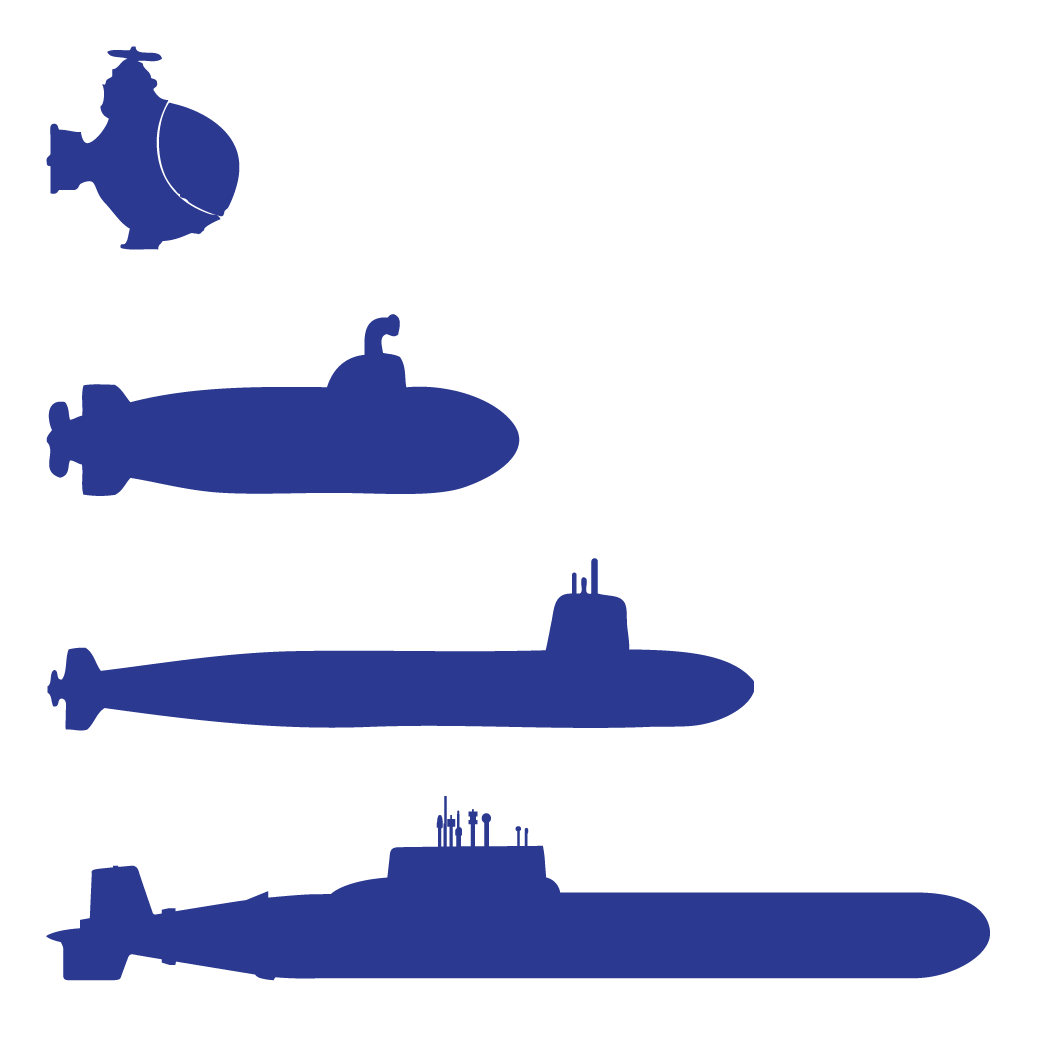
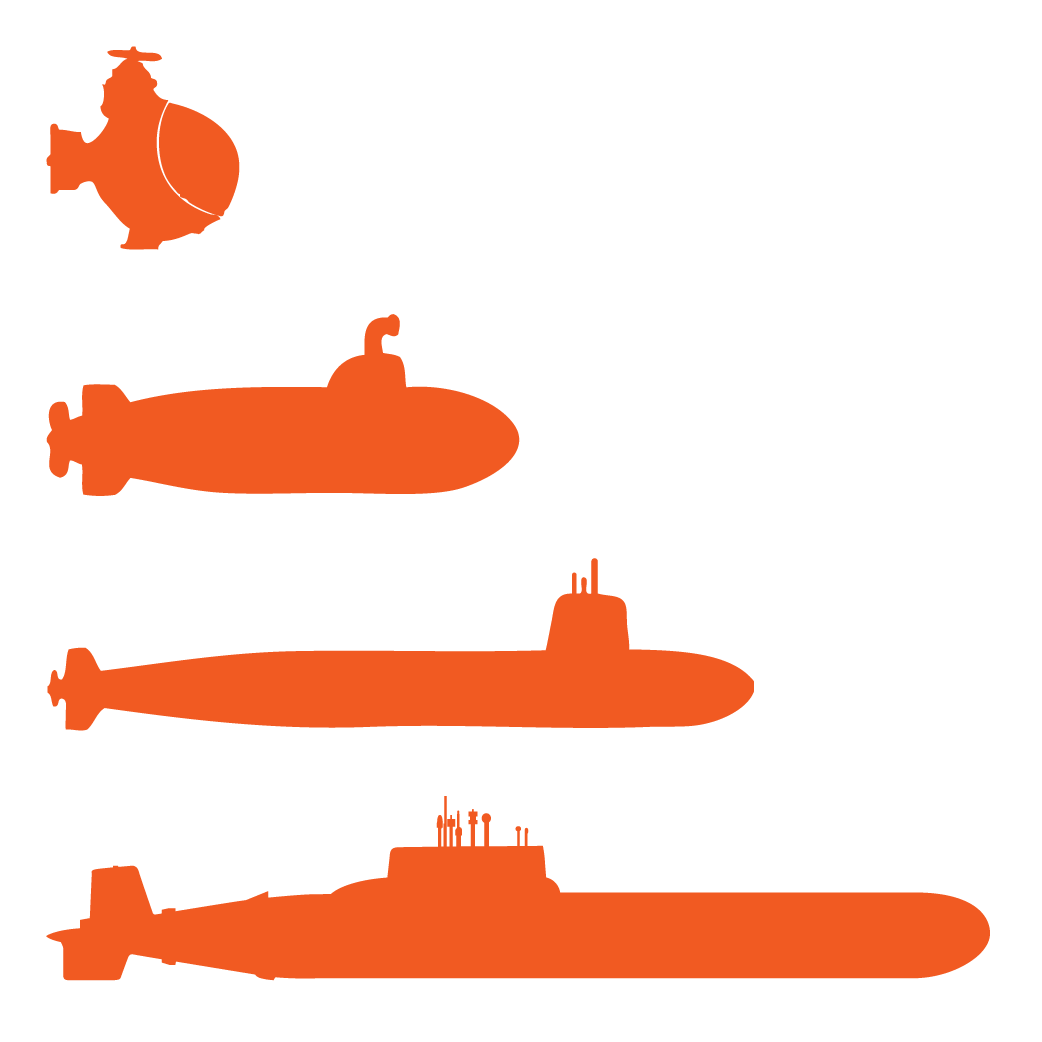
changed layout of How to Play box and color scheme

diff --git a/StartPage.xaml b/StartPage.xaml
@@ -19,14 +19,14 @@
                     <RowDefinition Height="4*"/>
                     <RowDefinition Height="2*"/>
                 </Grid.RowDefinitions>
-                <Rectangle Fill="LightGray" Grid.Row="0" Grid.RowSpan="2" Margin="16, 16, 16, 8"/>
+                <Rectangle Fill="White" Grid.Row="0" Grid.RowSpan="2" Margin="16, 16, 16, 8"/>
                 <TextBlock Foreground="#2B3990" Grid.Column="0" Grid.Row="0" Width="700" Grid.RowSpan="2" TextAlignment="Center" VerticalAlignment="Center" HorizontalAlignment="Center" Text="SubSweeper" TextWrapping="Wrap" FontSize="100" FontFamily="Segoe UI Semi Bold" Grid.ColumnSpan="2"/>
-                <Button x:Name="HowToPlayButton" Background="LightSlateGray" Click="HowToPlayButton_Click" Grid.Row="0" Grid.RowSpan="2" Content="How to Play" VerticalAlignment="Stretch" Foreground="White" HorizontalAlignment="Left" FontSize="45" FontFamily="SegoeUISemibold" Height="210" Margin="70, 0, 0, 0"/>
+                <Button x:Name="HowToPlayButton" Background="LightSlateGray" Click="HowToPlayButton_Click" Grid.Row="0" Grid.RowSpan="2" Content="How to Play" VerticalAlignment="Center" Foreground="White" HorizontalAlignment="Left" FontSize="45" FontFamily="SegoeUISemibold" Height="210" Margin="50, 8, 0, 0"/>
                 <Button Background="LightSlateGray" Foreground="White" Name="Stop" Grid.Row="0" Grid.RowSpan="2" Click="Stop_Click" Content="&#xE8BB;" VerticalAlignment="Top" HorizontalAlignment="Right" FontSize="80" FontFamily="Segoe MDL2 Assets" Height="140" Margin="0, 70, 70,0" Width="{Binding ActualHeight, ElementName=Stop, Mode=OneWay}"/>
                 <Image x:Name="Subs" Source="/Assets/subs_inline.png" Width="700" Grid.Row="1" VerticalAlignment="Stretch" HorizontalAlignment="Stretch"></Image>
             </Grid>
 
-            <Grid x:Name="LevelsGrid" Grid.Row="1" Background="LightGray" Margin="16, 8, 16, 0">
+            <Grid x:Name="LevelsGrid" Grid.Row="1" Background="White" Margin="16, 8, 16, 0">
                 <Grid.ColumnDefinitions>
                     <ColumnDefinition Width="367*"/>
                     <ColumnDefinition Width="367*"/>
@@ -39,28 +39,31 @@
                 <Button Name="Size6" Click="Size6_Click" Grid.Column="2" HorizontalAlignment="Stretch" VerticalAlignment="Stretch" Width="300" Height="{Binding ActualWidth, ElementName=Size6, Mode=OneWay}" FontSize="80" FontFamily="SegoeUISemibold" Margin="34,113,33,112"/>
                 <Button Name="Size7" Click="Size7_Click" Grid.Column="3" HorizontalAlignment="Stretch" VerticalAlignment="Stretch" Width="300" Height="{Binding ActualWidth, ElementName=Size7, Mode=OneWay}" FontSize="80" FontFamily="SegoeUISemibold" Grid.ColumnSpan="2" Margin="34,113,33,112"/>
             </Grid>
-            <Rectangle Fill="LightGray" Grid.Row="2" Margin="16, 0, 16, 16"/>
-            <TextBlock Foreground="Black" Text="Select a Size" Grid.Row="2" FontSize="55" FontFamily="SegoeUISemiBold" VerticalAlignment="Top" HorizontalAlignment="Center"/>
+            <Rectangle Fill="White" Grid.Row="2" Margin="16, 0, 16, 16"/>
+            <TextBlock Foreground="#2B3990" Text="Select a Size" Grid.Row="1" FontSize="55" FontFamily="SegoeUISemiBold" VerticalAlignment="Bottom" HorizontalAlignment="Center"/>
         </Grid>
-        <Grid  x:Name="HowtoPlayGrid" Visibility="Collapsed" Background="#AFABAB" HorizontalAlignment="Center" VerticalAlignment="Center" Height="800" Width="1200">
+        <Grid  x:Name="HowtoPlayGrid" Visibility="Collapsed" Background="#FFFFFF" HorizontalAlignment="Center" VerticalAlignment="Center" Height="750" Width="1300">
             <Grid.RowDefinitions>
                 <RowDefinition Height="1*"/>
                 <RowDefinition Height="4*"/>
             </Grid.RowDefinitions>
-            <Border BorderThickness="2" BorderBrush="#2B3990" Grid.Row="1">
+            <Border BorderThickness="15, 0, 15, 15" BorderBrush="#F15A22" Grid.Row="1">
                 <StackPanel Orientation="Vertical">
-                    <TextBlock x:Name="HowtoPlayText" Margin="16" TextWrapping="Wrap" FontSize="45" HorizontalAlignment="Stretch" VerticalAlignment="Stretch" Text="">
-                There are four submarines of sizes one, two, three, and four hidden in the board. Select a board size, and dwell with your eyes or click to fire.
+                    <TextBlock x:Name="HowtoPlayText" LineHeight="2" Foreground="#282828" Margin="16" TextWrapping="Wrap" FontSize="32" HorizontalAlignment="Stretch" VerticalAlignment="Stretch" Text="" FontFamily="Segoe UI">
+                There are four submarines of sizes one, two, three, and four hidden in the board. Select a board size, and dwell with your eyes or click to fire on a square.
                     </TextBlock>
-                    <TextBlock TextWrapping="Wrap" Text="When you hit, you will see a flash.  After you hit every part of the submarine, it sinks and the whole sub will be revealed." FontSize="45" Margin="16, 0, 0, 0"/>
-                    <TextBlock TextWrapping="Wrap" Text="The game ends when you have sunk all four submarines. " FontSize="45" Margin="16, 0, 0, 0"/>
-                    <TextBlock TextWrapping="Wrap" Text="Go on and test your accuracy. Enjoy!" FontSize="60" Margin="16, 0, 0, 0"/>
+                    <TextBlock TextWrapping="Wrap" LineHeight="2" Foreground="#282828" Text="" FontSize="32" Margin="16, 0, 0, 0" FontFamily="Segoe UI"/>
+                    <TextBlock TextWrapping="Wrap" LineHeight="2" Foreground="#282828" Text="When you hit, you will see a flash. Each part of a sub is hidden in a square. After you hit every part of the submarine, it sinks and the whole sub will be revealed." FontSize="32" Margin="16, 0, 0, 0" FontFamily="Segoe UI"/>
+                    <TextBlock TextWrapping="Wrap" LineHeight="2" Foreground="#282828" Text="" FontSize="32" Margin="16, 0, 0, 0" FontFamily="Segoe UI"/>
+                    <TextBlock TextWrapping="Wrap" LineHeight="2" Foreground="#282828" Text="The game ends when you have sunk all four submarines. " FontSize="32" Margin="16, 0, 0, 0" FontFamily="Segoe UI"/>
+                    <TextBlock TextWrapping="Wrap" LineHeight="2" Foreground="#282828" Text="" FontSize="32" Margin="16, 0, 0, 0" FontFamily="Segoe UI"/>
+                    <TextBlock TextWrapping="Wrap" Foreground="#2B3990" Text="Try and do it in as few moves as possible. Enjoy!" FontSize="40" Margin="16, 0, 0, 0" FontFamily="Segoe UI Semibold"/>
                 </StackPanel>
             </Border>
-            <Border BorderThickness="2" BorderBrush="#2B3990" Grid.Row="0">
-                <TextBlock Text="How to Play SubSweeper" FontSize="80" VerticalAlignment="Center" Margin="16"/>
+            <Border BorderThickness="15, 15, 15, 0" BorderBrush="#F15A22" Grid.Row="0">
+                <TextBlock Text="How to Play SubSweeper" FontSize="60" VerticalAlignment="Center" Margin="16" Foreground="#2B3990" FontFamily="Segoe UI Semibold"/>
             </Border>
-            <Button x:Name="ClosePlay" HorizontalAlignment="Right" Click="ClosePlay_Click" FontSize="80" Content="&#xE8BB;"  Foreground="#343434" Height="{Binding ActualWidth, ElementName=ClosePlay}" Width="100" Background="#AFABAB" FontFamily="Segoe MDL2 Assets" Margin="16"/>
+            <Button x:Name="ClosePlay" HorizontalAlignment="Right" Click="ClosePlay_Click" FontSize="60" Content="&#xE8BB;" Foreground="#F15A22" Height="100" Width="100" Background="#FFFFFF" FontFamily="Segoe MDL2 Assets" Margin="16, 5, 23, 16"/>
         </Grid>
     </Grid>
 </Page>

diff --git a/MainPage.xaml b/MainPage.xaml
@@ -53,17 +53,17 @@
                 <Button Grid.Row="3" Grid.Column="3" Click="OnFired" HorizontalAlignment="Stretch" VerticalAlignment="Stretch" Margin="2" FontSize="70" FontFamily="Segoe MDL2 Assets"/>
 
             </Grid>
-            <Grid Grid.Column ="0" Grid.Row="0" Grid.RowSpan="2" Background="LightGray" Margin="16,16,8,16">
+            <Grid Grid.Column ="0" Grid.Row="0" Grid.RowSpan="2" Background="White" Margin="16,16,8,16">
                 <Grid.RowDefinitions>
                     <RowDefinition Height="2*"/>
                     <RowDefinition Height="1*"/>
                     <RowDefinition Height="2*"/>
                 </Grid.RowDefinitions>
                 <TextBlock Grid.Column="0" Grid.Row="0" VerticalAlignment="Center" Foreground="#2B3990"  HorizontalAlignment="Center" Text="SubSweeper" TextWrapping="Wrap" FontSize="50" FontFamily="Segoe UI Semi Bold"/>
-                <Image x:Name="Subs" Source="/Assets/subs.png" Grid.Row="2" VerticalAlignment="Center" HorizontalAlignment="Center" Height="{Binding ActualWidth, ElementName=Subs, Mode=OneWay}" Width="{Binding ActualWidth, ElementName=NewGame, Mode=OneWay}"></Image>
-                <Button x:Name="NewGame" Grid.Column="0" Grid.Row="1" Background="LightSlateGray" Foreground="White" Content="New Game" Click="OnNewGame" HorizontalAlignment="Center" Height="100" Width="250" FontSize="32" FontFamily="SegoeUISemibold" VerticalAlignment="Top"/>
+                <Image x:Name="Subs" Source="/Assets/subs.png" Grid.Row="2" VerticalAlignment="Center" HorizontalAlignment="Center" Height="{Binding ActualWidth, ElementName=Subs, Mode=OneWay}" Width="250"></Image>
+                <Button x:Name="NewGame" Grid.Column="0" Grid.Row="1" Background="LightSlateGray" Foreground="White" Content="New Game" Click="OnNewGame" HorizontalAlignment="Center" Height="150" Width="250" FontSize="32" FontFamily="SegoeUISemibold" VerticalAlignment="Center"/>
             </Grid>
-            <Grid Grid.Column="2" Grid.Row="0" Grid.RowSpan="2" Background="LightGray" Margin="8,16,16,16">
+            <Grid Grid.Column="2" Grid.Row="0" Grid.RowSpan="2" Background="White" Margin="8,16,16,16">
                 <Grid.RowDefinitions>
                     <RowDefinition Height="1*"/>
                     <RowDefinition Height="1*"/>
@@ -75,10 +75,11 @@
                 <Button x:Name="Stop_Button" Margin="8" Background="LightSlateGray" Foreground="White" Click="Stop_Click" Grid.Row="0" Content="&#xE8BB;" Width="{Binding ActualHeight, ElementName=Stop_Button, Mode=OneWay}" HorizontalAlignment="Right" FontSize="50" FontFamily="Segoe MDL2 Assets" Height="100" VerticalAlignment="Top"/>
                 <Button x:Name="Pause_Button" Margin="8" Background="LightSlateGray" Foreground="White" Click="Pause_Button_Click" Grid.Row="0" Content="&#xE769;" Width="{Binding ActualHeight, ElementName=Stop_Button, Mode=OneWay}" HorizontalAlignment="Left" FontSize="50" FontFamily="Segoe MDL2 Assets" Height="100" VerticalAlignment="Top"/>
                 <TextBlock x:Name="ShipsLeftText" Grid.Column="2" Grid.Row ="1" Foreground="#2B3990" HorizontalAlignment="Left" Text="Subs Left:" TextWrapping="Wrap" VerticalAlignment="Bottom" Margin="32,0,8,0"  FontSize="35" FontFamily="Segoe UI Semi Bold"/>
-                <TextBlock Grid.Column="2" Grid.Row ="2" Foreground="#2B3990" HorizontalAlignment="Left" x:Name="ShipScore" TextWrapping="Wrap" VerticalAlignment="Top" Margin="32, 0, 8, 0" FontSize="60" FontFamily="Segoe UI Semi Bold"/>
+                <TextBlock Grid.Column="2" Grid.Row ="2" Foreground="#F15A22" HorizontalAlignment="Left" x:Name="ShipScore" TextWrapping="Wrap" VerticalAlignment="Top" Margin="32, 0, 8, 0" FontSize="60" FontFamily="Segoe UI Semi Bold"/>
                 <TextBlock x:Name="MovesText" Grid.Row ="3" Foreground="#2B3990" HorizontalAlignment="Left" Text="Moves:" TextWrapping="Wrap" VerticalAlignment="Bottom" Margin="32, 0, 8, 0" FontSize="35" FontFamily="Segoe UI Semi Bold"/>
-                <TextBlock x:Name="Moves" Grid.Row ="4" Foreground="#2B3990" HorizontalAlignment="Left" Text="" TextWrapping="Wrap" VerticalAlignment="Top" Margin="32, 0, 8, 0" FontSize="60" FontFamily="Segoe UI Semi Bold"/>
-                <TextBlock x:Name="Accuracy" Grid.Row ="2" Grid.RowSpan="3" Foreground="#2B3990" HorizontalAlignment="Center" Visibility="Collapsed" Text="" TextWrapping="Wrap" VerticalAlignment="Center" Margin="16, 0, 8, 0" FontSize="50" FontFamily="Segoe UI Semi Bold"/>
+                <TextBlock x:Name="Moves" Grid.Row ="4" Foreground="#F15A22" HorizontalAlignment="Left" Text="" TextWrapping="Wrap" VerticalAlignment="Top" Margin="32, 0, 8, 0" FontSize="60" FontFamily="Segoe UI Semi Bold"/>
+                <TextBlock x:Name="GameOver" Grid.Row ="2" Grid.RowSpan="3" Foreground="#F15A22" HorizontalAlignment="Left" Visibility="Collapsed" Text="" TextWrapping="Wrap" VerticalAlignment="Top" Margin="16, 75, 8, 0" FontSize="50" FontFamily="Segoe UI Semi Bold"/>
+                <TextBlock x:Name="TotalMoves" Grid.Row ="2" Grid.RowSpan="3" Foreground="#2B3990" HorizontalAlignment="Left" Visibility="Collapsed" Text="" TextWrapping="Wrap" VerticalAlignment="Top" Margin="16, 155, 8, 0" FontSize="40" FontFamily="Segoe UI Semi Bold"/>
             </Grid>
         </Grid>
     </Grid>

diff --git a/MainPage.xaml.cs b/MainPage.xaml.cs
@@ -400,16 +400,17 @@ namespace SubSweeper
                 if (shipsHit == 4)
                 {
                     gameOver = true;
-                    int bsqaured = BOARD_SIZE * BOARD_SIZE;
-                    double accuracy = (100 / (10 - bsqaured)) * (moves - bsqaured);
-                    string message = $"Game Over! \nAccuracy: {accuracy:g}%";
+                    string message = $"Moves: {moves:g}";
                     ShipsLeftText.Visibility = Visibility.Collapsed;
                     ShipScore.Visibility = Visibility.Collapsed;
                     MovesText.Visibility = Visibility.Collapsed;
                     Moves.Visibility = Visibility.Collapsed;
-                    Accuracy.Text = message;
-                    Accuracy.FontWeight = FontWeights.SemiBold;
-                    Accuracy.Visibility = Visibility.Visible;
+                    GameOver.Text = $"Game Over!";
+                    GameOver.FontWeight = FontWeights.SemiBold;
+                    GameOver.Visibility = Visibility.Visible;
+                    TotalMoves.Text = message;
+                    TotalMoves.FontWeight = FontWeights.SemiBold;
+                    TotalMoves.Visibility = Visibility.Visible;
                     OnlySea();
                     
                 }
